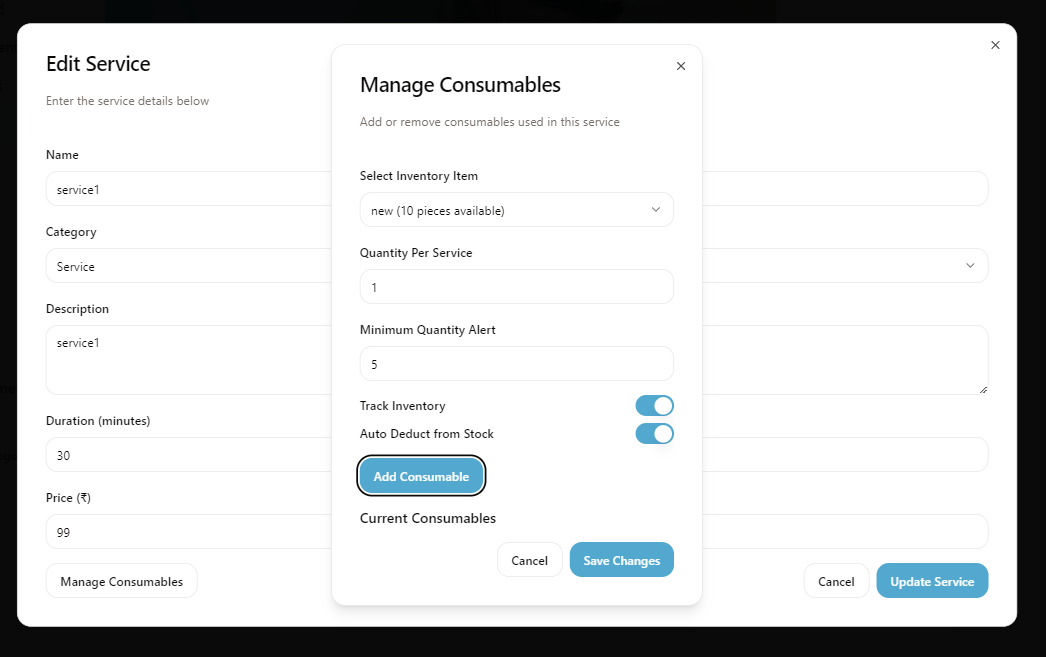
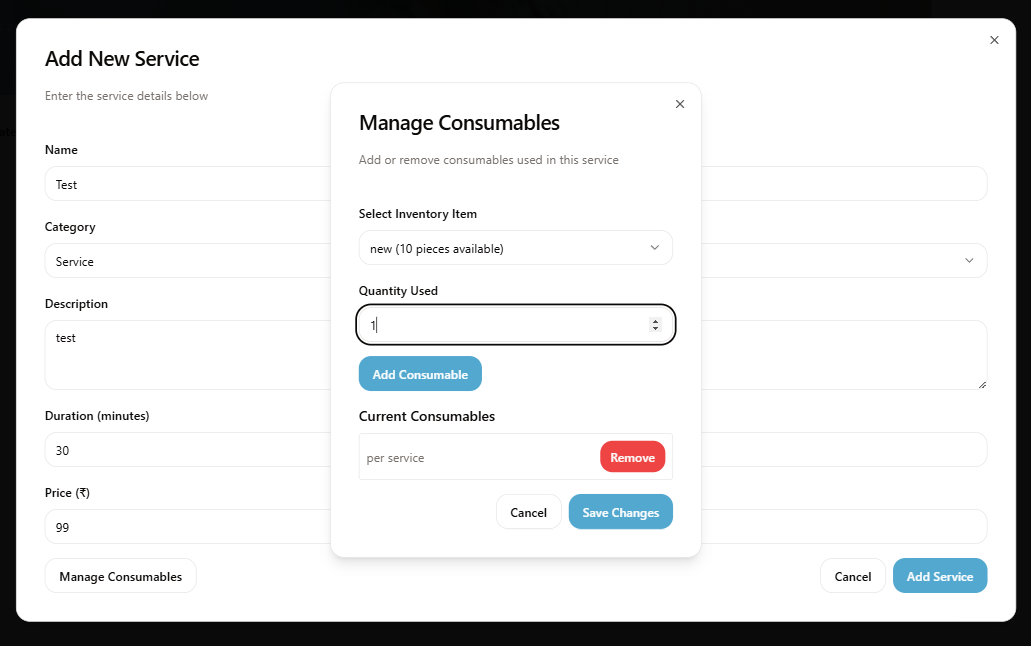
Agent query: Can you try adding a consumable to a service and check if both the display and submission work correctly now?
Update ConsumablesModal display and handle optional dates in serviceConsumableSchema.

Screenshot: https://storage.googleapis.com/screenshot-production-us-central1/c2ee078f-4b26-4083-bd08-de31e29653e1/a4cd225a-5bec-41ab-987f-6a8c7faff2f7.jpg

diff --git a/client/src/lib/service-types.ts b/client/src/lib/service-types.ts
@@ -11,12 +11,14 @@ export const serviceConsumableSchema = z.object({
     z.object({
       seconds: z.number(),
       nanoseconds: z.number()
-    })
+    }),
+    z.null(),
+    z.undefined()
   ]).transform(val => {
     if (!val) return new Date();
     if (val instanceof Date) return val;
     if (typeof val === 'string') return new Date(val);
-    if ('seconds' in val) return new Date(val.seconds * 1000);
+    if (typeof val === 'object' && 'seconds' in val) return new Date(val.seconds * 1000);
     return new Date();
   }).default(new Date()),
   updated_at: z.union([
@@ -25,15 +27,22 @@ export const serviceConsumableSchema = z.object({
     z.object({
       seconds: z.number(),
       nanoseconds: z.number()
-    })
+    }),
+    z.null(),
+    z.undefined()
   ]).transform(val => {
     if (!val) return new Date();
     if (val instanceof Date) return val;
     if (typeof val === 'string') return new Date(val);
-    if ('seconds' in val) return new Date(val.seconds * 1000);
+    if (typeof val === 'object' && 'seconds' in val) return new Date(val.seconds * 1000);
     return new Date();
   }).default(new Date())
-});
+}).transform(data => ({
+  ...data,
+  quantity_used: Number(data.quantity_used),
+  created_at: data.created_at || new Date(),
+  updated_at: data.updated_at || new Date()
+}));
 
 // Define the service schema
 export const ServiceCategory = {

diff --git a/client/src/components/ConsumablesModal.tsx b/client/src/components/ConsumablesModal.tsx
@@ -152,9 +152,9 @@ export function ConsumablesModal({
                 className="flex items-center justify-between p-2 border rounded"
               >
                 <div>
-                  <p className="font-medium">{consumable.name}</p>
+                  <p className="font-medium">{consumable.item_name}</p>
                   <p className="text-sm text-muted-foreground">
-                    {consumable.quantity_per_service} {consumable.unit} per service
+                    Quantity: {consumable.quantity_used}
                   </p>
                 </div>
                 <Button
